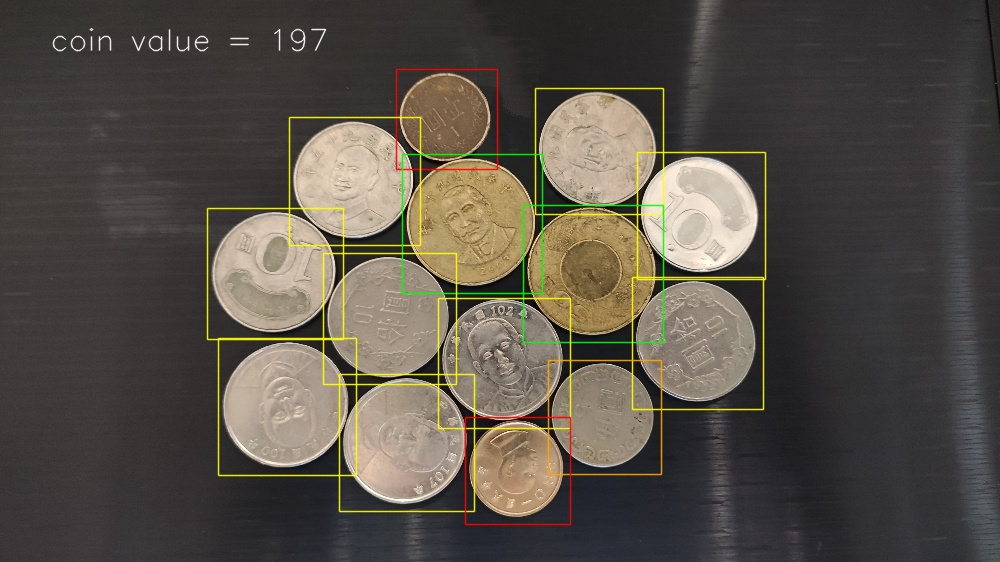
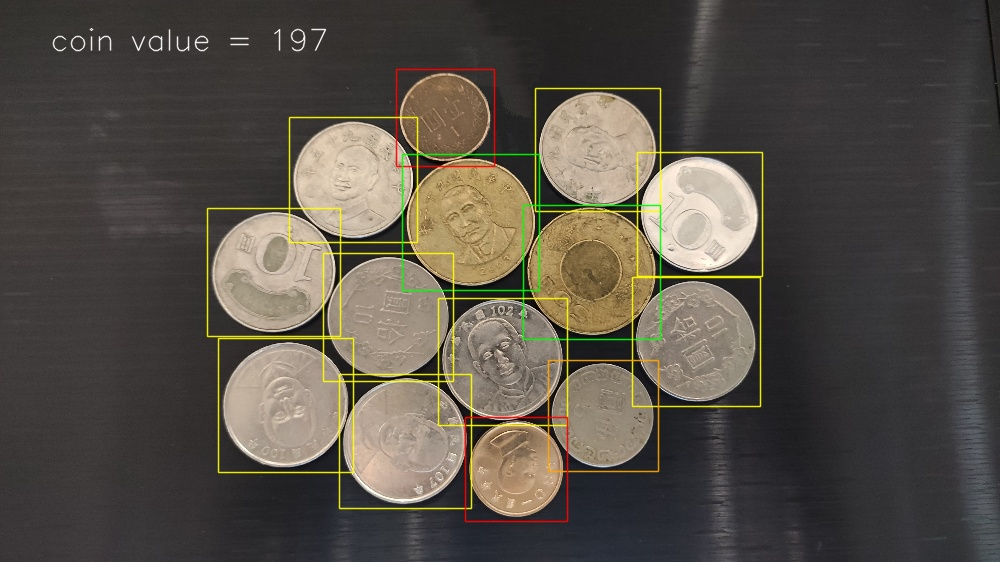
clean coin.py

Changed region(s): [[0.217, 0.1512, 0.775, 0.9377]]

diff --git a/hw3/coin.py b/hw3/coin.py
@@ -2,54 +2,48 @@ import color_table as ct
 import cv2
 import numpy as np
 
-def get_coin() -> None:
-    # height = 4000, width = 2250
-    coin = cv2.imread('coin_pic/coin.jpg')
+def get_color_and_value(side_len):
+    """
+    Args:
+        side_len: side length of a connected component
 
-    coin = cv2.resize(coin, (1000, 562))
-    cv2.imwrite('coin_pic/coin_resize.jpg', coin)
+    Returns:
+        the corresponding color and coin value of the component,
+        50-dollar: green and value 50,
+        10-dollar: yellow and value 10,
+        5-dollar: orange and value 5,
+        1-dollar: red and value 1.
+    """
 
-    coin_adjust = coin_background_and_inner_clean(coin)
+    color, value = ct.white, 0
+    if side_len >= 117:
+        color, value = ct.green, 50
+    elif side_len >= 100:
+        color, value = ct.yellow, 10
+    elif side_len >= 90:
+        color, value = ct.orange, 5
+    else:
+        color, value = ct.red, 1
 
-    num_labels, _, stats, _ = cv2.connectedComponentsWithStats(coin_adjust, connectivity=8, ltype=cv2.CV_32S)
+    return color, value #  end get_color_and_value
 
-    coin_value = 0
-    result_target_coin = cv2.imread('coin_pic/coin_resize.jpg')
+def threshold_binary(src_img, threshold):
+    _, bin_img = cv2.threshold(src_img, threshold, 255, cv2.THRESH_BINARY)
+    return bin_img
 
-    # stats[0] is the background
-    for stat in stats[1:]:
-        # (x, y) is the upper-left coord.
-        x, y, width, height, area = map(int, stat)
-        color = (0, 0, 0)
-        side_len = max(width, height)
-        if area < 4000:
-            continue
-        if side_len >= 120:
-            color = ct.green
-            coin_value += 50
-        elif side_len >= 100:
-            color = ct.yellow
-            coin_value += 10
-        elif side_len >= 90:
-            color = ct.orange
-            coin_value += 5
-        else:
-            color = ct.red
-            coin_value += 1
+def clean_background_and_inner(coin_origin):
+    """
+    Takes the coin with background and inner black noises,
+    clean them and return the clean coin back.
+    """
 
-        # (target_img, upper-left coord., lower-right coord., color, [border-thickness, [line-type]])
-        cv2.rectangle(result_target_coin, (x - 10, y - 10), (x + width + 10, y + height + 10), color, 1, cv2.LINE_AA)
+    # Turn the coin into gray first. Binarization once but coins connect together.
+    # So blur and use more erode than dilate to shrink coin circle and clean noises.
+    # Another binarization with higher threshold value is used to get the coin back.
 
-    # (target_img, message, start coord., font-style, font-size, color, [thickness, [line-type]])
-    cv2.putText(result_target_coin, f'coin value = {coin_value}', (50, 50), cv2.FONT_HERSHEY_SIMPLEX, 1, ct.white, 1, cv2.LINE_AA)
-    cv2.imwrite('coin_pic/coin_get.jpg', result_target_coin)
-
-    return  # end get_coin
-
-def coin_background_and_inner_clean(coin_origin):
     coin_gray = cv2.cvtColor(coin_origin, cv2.COLOR_BGR2GRAY)
 
-    _, coin_bin = cv2.threshold(coin_gray, 70, 255, cv2.THRESH_BINARY)
+    coin_bin = threshold_binary(coin_gray, 70)
     cv2.imwrite('coin_pic/coin_bin.jpg', coin_bin)
 
     coin_blur = cv2.GaussianBlur(coin_bin, (5, 5), 0)
@@ -57,12 +51,47 @@ def coin_background_and_inner_clean(coin_origin):
     coin_adjust = cv2.erode(coin_blur, np.ones((3, 3)), iterations=10)
     coin_adjust = cv2.dilate(coin_adjust, np.ones((3, 3)), iterations=5)
 
-    _, coin_adjust = cv2.threshold(coin_adjust, 150, 255, cv2.THRESH_BINARY)
+    coin_clean = threshold_binary(coin_adjust, 150)
 
-    coin_adjust = cv2.dilate(coin_adjust, np.ones((2, 2)), iterations=3)
-    cv2.imwrite('coin_pic/coin_adjust.jpg', coin_adjust)
+    return coin_clean  # end coin_background_and_inner_clean
 
-    return coin_adjust  # end coin_background_and_inner_clean
+def get_coin() -> None:
+    # height = 4000, width = 2250
+    coin = cv2.imread('coin_pic/coin.jpg')
+
+    # this variable coin will later be used as the target_img, add in rectangles and text.
+    coin = cv2.resize(coin, (1000, 562))
+
+    coin_clean = clean_background_and_inner(coin)
+    cv2.imwrite('coin_pic/coin_clean.jpg', coin_clean)
+
+    num_labels, _, stats, _ = cv2.connectedComponentsWithStats(coin_clean, connectivity=8, ltype=cv2.CV_32S)
+
+    coin_value = 0
+
+    # stats[0] is the background, stats[15] is a small noise spot at the lower left
+    for stat in stats[1:15]:
+        # (x, y) is the upper-left coord.
+        x, y, width, height, area = map(int, stat)
+
+        color, value = get_color_and_value(max(width, height))
+        coin_value += value
+
+        cv2.rectangle(coin, # target_img
+                      (x - 10, y - 10), #  upper-left coord.
+                      (x + width + 10, y + height + 10), #  lower-right coord.
+                      color, 1, cv2.LINE_AA) #  color, [border-thickness, [line-type]]
+
+    cv2.putText(coin, #  target_img
+                f'coin value = {coin_value}', # text
+                (50, 50), #  start coord.
+                cv2.FONT_HERSHEY_SIMPLEX, #  font style
+                1, ct.white, 1, cv2.LINE_AA) #  font size, color, [thickness, [line-type]]
+
+    cv2.imwrite('coin_pic/coin_get.jpg', coin)
+
+    return  # end get_coin
+
 
 if __name__ == '__main__':
     get_coin()

diff --git a/hw3/main.py b/hw3/main.py
@@ -3,7 +3,7 @@ import coin
 import coin2
 import floor
 
-# coin.get_coin()
-# coin2.get_coin_2()
+coin.get_coin()
 floor.get_floor()
-# apple.get_apple()
+coin2.get_coin_2()
+apple.get_apple()

diff --git a/hw3/color_table.py b/hw3/color_table.py
@@ -1,3 +1,5 @@
+"""Put values of frequently used color here. Under the format of (B, G, R)"""
+
 red = (0, 0, 255)
 orange = (0, 165, 255)
 yellow = (0, 255, 255)
